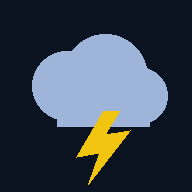
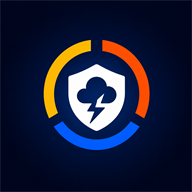
feat: icono ASN con colores de alerta + nieve real por snowfall

diff --git a/app.js b/app.js
@@ -170,14 +170,30 @@ function aggregate(H, ens) {
   /* granizo: proxy con CAPE, ráfaga y nivel de congelamiento. Nunca sube nivel solo. */
   const hailPossible = capeMax >= 1500 && gustMax >= 70 && freezing >= 3000 && freezing <= 4500;
 
+  /* nieve real: acumulado previsto en cm (no hay simulación) */
+  const snowSeries = seriesByBase(H, 'snowfall');
+  const snowHours = [];
+  for (let i = 0; i < 13; i++) {
+    snowHours.push(snowSeries.reduce((m, s) => Math.max(m, s[i] ?? 0), 0));
+  }
+  const snow3 = snowHours.slice(0, 3).reduce((a, b) => a + b, 0);
+  if (snow3 >= 5) level = 3;
+  else if (snow3 >= 2) level = Math.max(2, level);
+  else if (snow3 >= 0.2) level = Math.max(1, level);
+
   return {
     models, level: Math.min(3, level), detLevel, eLevel, votes,
-    capeMax, gustMax, freezing, storm, hailPossible, ens
+    capeMax, gustMax, freezing, storm, hailPossible, ens, snow3, snowHours
   };
 }
 
 /* ===================== Lenguaje humano ===================== */
 function levelInfo(d) {
+  if (d.snow3 >= 0.5) {
+    if (d.level >= 3) return { cls: 'lv3', emoji: '❄', title: 'Nevada fuerte', line: 'Se espera nieve acumulada en tu zona.', action: 'Evitá salir en auto. Abrigate bien.', cta: '🚨' };
+    if (d.level === 2) return { cls: 'lv2', emoji: '🌨', title: 'Puede nevar', line: 'Hay chances de nieve en las próximas 3 horas.', action: 'Si tenés que salir, hacelo con cuidado.', cta: '⚠' };
+    return { cls: 'lv1', emoji: '🌨', title: 'Puede caer nieve', line: 'Se espera algo de nieve en las próximas 3 horas.', action: 'Abrigate y seguí el pronóstico.', cta: '☂' };
+  }
   const rain = d.votes.rain >= 2, wind = d.votes.wind >= 2;
   let what = rain ? 'lluvia' : wind ? 'ráfagas fuertes' : 'viento';
   if (d.storm) what = 'tormenta eléctrica';
@@ -210,6 +226,7 @@ function hourSignal(d, i) {
 function nextEvent(d) {
   const n = Math.min(12, d.times.length);
   for (let i = 0; i < n; i++) {
+    if (d.snowHours && d.snowHours[i] >= 0.1) return { iso: d.times[i], label: 'Nieve' };
     const s = hourSignal(d, i);
     if (s.rain || s.gust >= 50) {
       const both = s.rain && s.gust >= 50;
@@ -256,7 +273,7 @@ async function fetchPlace(p) {
   const u = new URL('https://api.open-meteo.com/v1/forecast');
   u.searchParams.set('latitude', p.lat);
   u.searchParams.set('longitude', p.lon);
-  u.searchParams.set('hourly', 'precipitation,precipitation_probability,wind_gusts_10m,cape,weather_code,freezing_level_height');
+  u.searchParams.set('hourly', 'precipitation,precipitation_probability,wind_gusts_10m,cape,weather_code,freezing_level_height,snowfall,snow_depth');
   u.searchParams.set('current', 'temperature_2m,precipitation,weather_code,wind_speed_10m,wind_gusts_10m');
   u.searchParams.set('models', MODELS.join(','));
   u.searchParams.set('forecast_hours', '13');
@@ -456,6 +473,7 @@ function probHtml(d) {
     'ráfagas ≥60 km/h <b>' + pc(d.ens.gust60) + '</b>'
   ];
   if (d.hailPossible) bits.push('<b>posible granizo</b>');
+  if (d.snow3 >= 0.2) bits.push('nieve <b>' + d.snow3.toFixed(1) + ' cm</b>');
   return `<div class="prob">${d.ens.n} de 51 escenarios: ${bits.join(' · ')}</div>`;
 }
 

diff --git a/index.html b/index.html
@@ -8,7 +8,7 @@
 <meta name="theme-color" content="#080f1c">
 <link rel="manifest" href="manifest.json">
 <link rel="icon" href="icon-192.png">
-<link rel="apple-touch-icon" href="icon-192.png">
+<link rel="apple-touch-icon" href="apple-touch-icon.png">
 <meta name="apple-mobile-web-app-capable" content="yes">
 <meta name="mobile-web-app-capable" content="yes">
 <meta name="apple-mobile-web-app-status-bar-style" content="black-translucent">
@@ -35,7 +35,7 @@ a{color:#93c5fd;text-decoration:none}
 
 .top{display:flex;align-items:center;gap:10px;margin:2px 0 16px}
 .brand{display:flex;align-items:center;gap:10px;flex:1;min-width:0}
-.logo{width:40px;height:40px;border-radius:13px;display:grid;place-items:center;font-size:11.5px;font-weight:900;letter-spacing:.4px;background:linear-gradient(150deg,#1d4ed8,#0891b2);box-shadow:0 6px 18px rgba(29,78,216,.45)}
+.logo{width:38px;height:38px;border-radius:12px;object-fit:cover;border:1px solid rgba(255,255,255,.12);box-shadow:0 6px 18px rgba(0,0,0,.5)}
 .brand h1{font-size:19px;font-weight:800;letter-spacing:-.2px;line-height:1.1}
 .brand .sub{font-size:12px;color:var(--dim);margin-top:3px;white-space:nowrap;overflow:hidden;text-overflow:ellipsis}
 
@@ -154,7 +154,7 @@ label{display:block;font-size:12.5px;color:var(--dim);margin:14px 0 6px}
 <body>
 <header class="top">
   <div class="brand">
-    <div class="logo">ASN</div>
+    <img class="logo" src="icon-192.png" alt="ASN 4.0">
     <div style="min-width:0">
       <h1>ASN 4.0</h1>
       <div class="sub" id="sub">Alerta Super Niño 4.0</div>

diff --git a/sw.js b/sw.js
@@ -1,4 +1,4 @@
-const CACHE = 'asn-v2';
+const CACHE = 'asn-v3';
 const SHELL = ['./', 'index.html', 'app.js', 'manifest.json', 'icon-192.png', 'icon-512.png'];
 
 self.addEventListener('install', e => {
@@ -52,6 +52,7 @@ self.addEventListener('notificationclick', e => {
     })
   );
 });
+
 
 
 

diff --git a/README.md b/README.md
@@ -23,6 +23,9 @@ Monitor de inteligencia meteorológica para la familia. Te dice, de un vistazo, 
 | Ráfagas | P(≥60 km/h) ≥ 40 % | P(≥80 km/h) ≥ 40 % | P(≥100 km/h) ≥ 30 % |
 | Tormenta eléctrica | CAPE ≥ 1000 J/kg **y** P(lluvia ≥ 10 mm) ≥ 30 % | — | — |
 | Granizo | etiqueta "posible granizo" (CAPE ≥ 1500, ráfaga ≥ 70 km/h, nivel de congelamiento 3000–4500 m) | | |
+| Nieve (cm en 3 h) | ≥ 0,2 cm | ≥ 2 cm | ≥ 5 cm |
+
+**La nieve no es un ejemplo:** se calcula con las variables `snowfall` (cm) y `snow_depth` (m) de Open-Meteo, alimentadas por el IFS. En Córdoba es poco frecuente pero real: la última nevada en la capital fue el 16 de junio de 2021 y, según registros históricos recogidos por La Voz, las nevadas en la ciudad sólo habían ocurrido en julio, agosto y septiembre ([La Voz, 28/06/2025](https://www.lavoz.com.ar/ciudadanos/la-ola-polar-trajo-frio-extremo-y-altas-chances-de-nieve-incluso-en-la-ciudad-de-cordoba_0_oZC8NgiZ77.html)).
 
 Además se calculan los cuatro modelos determinísticos (ECMWF, GFS, ICON, GEM) como control: si el ensemble y el determinístico difieren en más de un nivel, se baja uno y se muestra el rango.
 
@@ -65,4 +68,6 @@ El repositorio no contiene direcciones, teléfonos ni coordenadas. Los lugares s
 
 ## Límites
 
-No reemplaza un servicio meteorológico oficial ni las indicaciones de Defensa Civil. El granizo es el fenómeno más difícil: la app lo marca como "posible", nunca como certeza, porque sin radar propio no hay forma de confirmarlo.
+No reemplaza tu criterio. El granizo es el fenómeno más difícil: la app lo marca como "posible", nunca como certeza, porque sin radar propio no hay forma de confirmarlo. Si el cielo se pone feo, abrí el radar desde "Ver detalles".
+
+Las fuentes son modelos y redes independientes (ECMWF, NOAA, DWD, CMC vía Open-Meteo; RainViewer; Blitzortung). No se usan datos de organismos provinciales ni nacionales: no publican verificación estación por estación ni endpoints utilizables.
